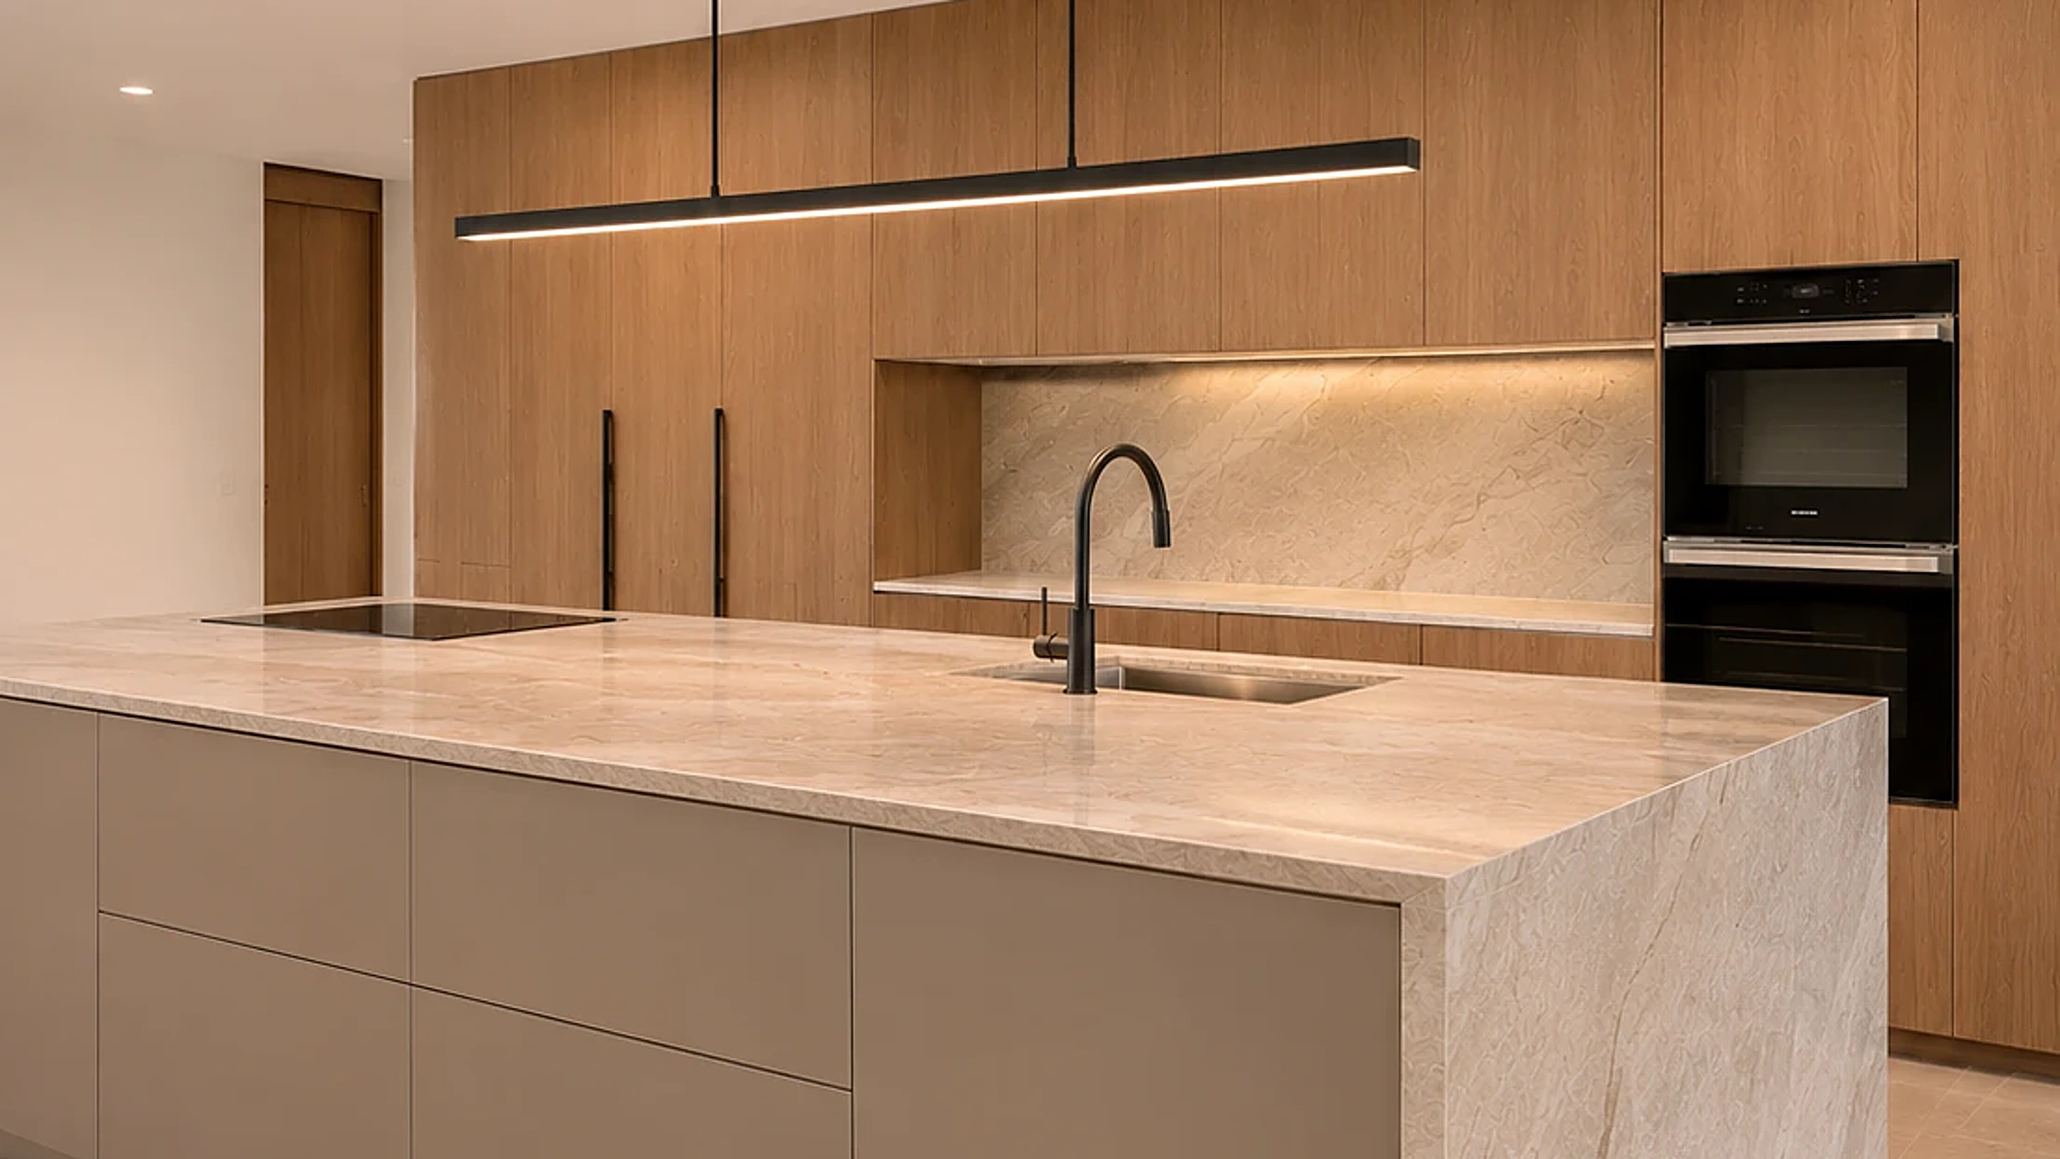
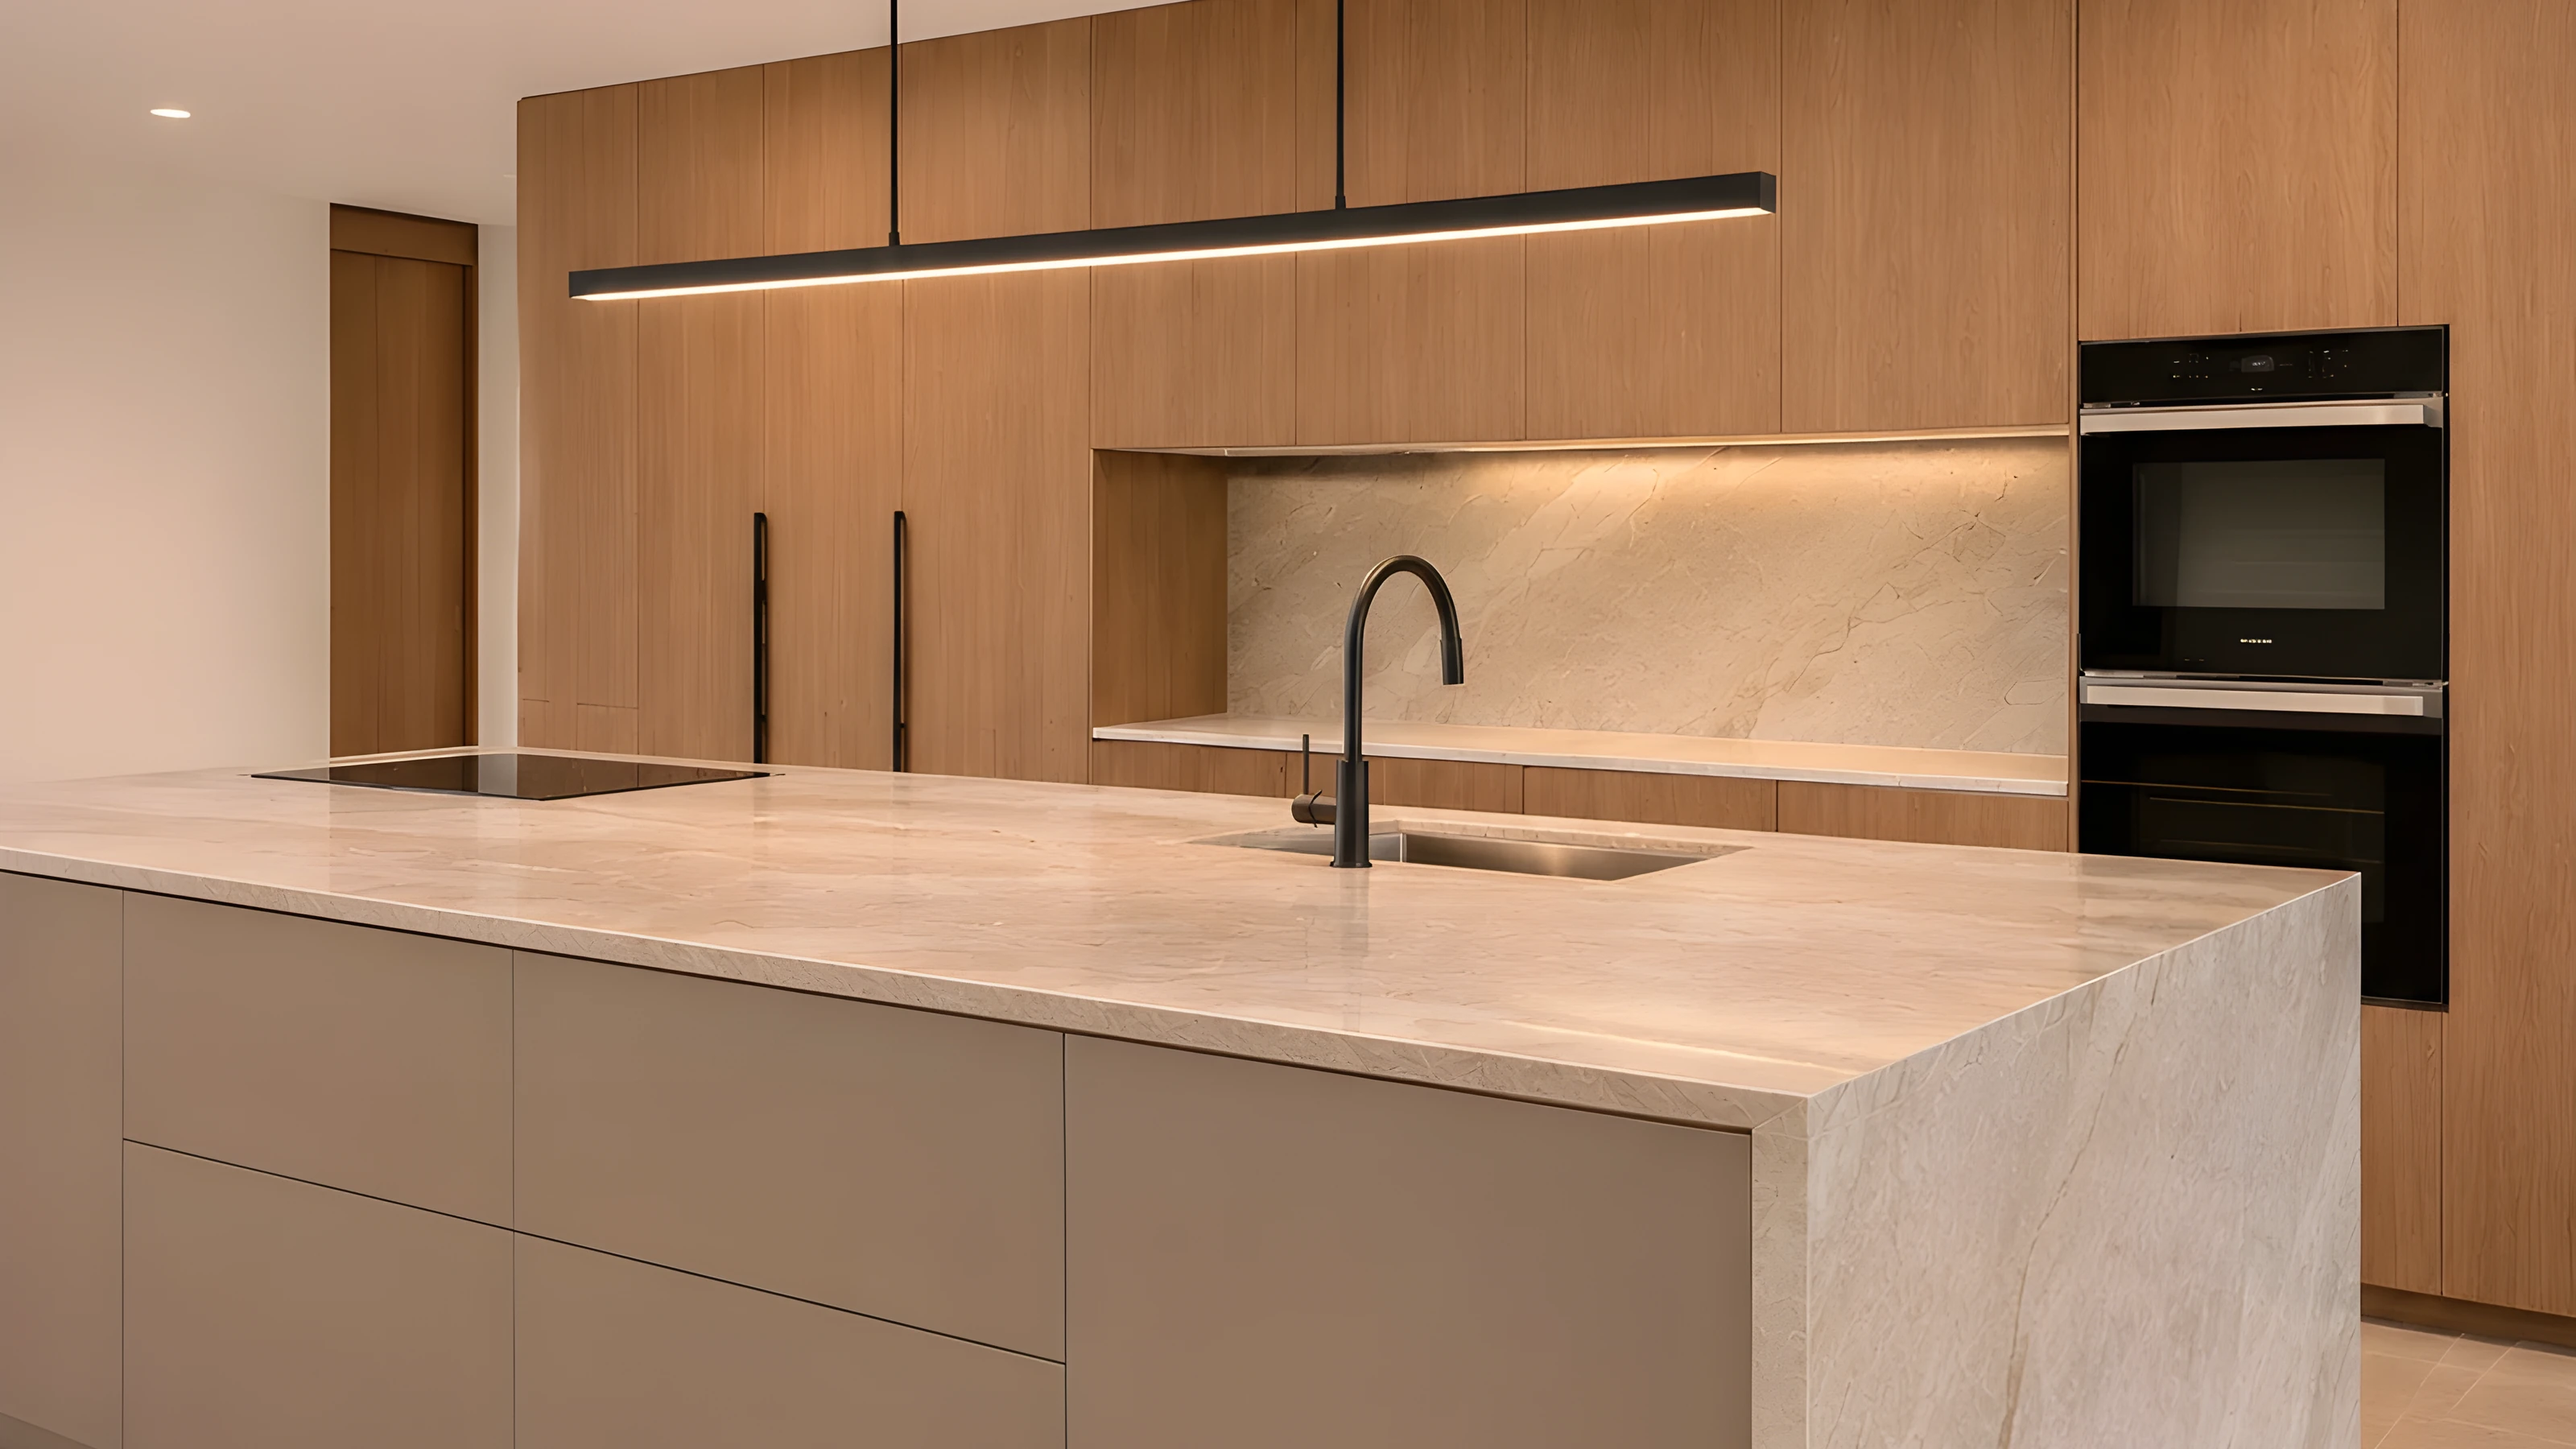
Keep hero captions unchanged on hover; sharper first hero image
Remove the italic hover style on the hero and tile links. Replace the
first hero image with an upscaled 3200x1800 / 1290x2293 export.

Claude-Session: https://claude.ai/code/session_01PJnvV7EPmWku7QpvRs9UqU

diff --git a/index.html b/index.html
@@ -37,20 +37,20 @@
   <main>
 
     <section class="hero">
-      <!-- Slideshow. Each slide has a landscape file (2560x1440, computers)
-           and a portrait file (1080x1920, phones). Every image gets the same colour treatment from .graded in the CSS. -->
+      <!-- Slideshow. Each slide has a landscape file (3200x1800, computers)
+           and a portrait file (1290x2293, phones). Every image gets the same colour treatment from .graded in the CSS. -->
       <div class="slides graded">
         <picture class="slide is-active">
           <source media="(orientation: portrait)" srcset="images/hero-1-mobile.webp">
-          <img src="images/hero-1-desktop.webp" alt="Kitchen with a stone waterfall island and warm wood cabinetry" width="2560" height="1440">
+          <img src="images/hero-1-desktop.webp" alt="Kitchen with a stone waterfall island and warm wood cabinetry" width="3200" height="1800">
         </picture>
         <picture class="slide">
           <source media="(orientation: portrait)" srcset="images/hero-2-mobile.webp">
-          <img src="images/hero-2-desktop.webp" alt="Stone farmhouse sink below a black-framed window with a desert view" width="2560" height="1440">
+          <img src="images/hero-2-desktop.webp" alt="Stone farmhouse sink below a black-framed window with a desert view" width="3200" height="1800">
         </picture>
         <picture class="slide">
           <source media="(orientation: portrait)" srcset="images/hero-3-mobile.webp">
-          <img src="images/hero-3-desktop.webp" alt="Cream kitchen with a veined stone island, plaster hood and brass fixtures" width="2560" height="1440">
+          <img src="images/hero-3-desktop.webp" alt="Cream kitchen with a veined stone island, plaster hood and brass fixtures" width="3200" height="1800">
         </picture>
       </div>
       <a href="#architecture">Architecture</a>

diff --git a/css/styles.css b/css/styles.css
@@ -175,7 +175,6 @@ a { color: inherit; text-decoration: none; }
   letter-spacing: -0.01em;
   text-shadow: 0 1px 30px rgba(40, 28, 22, 0.3);
 }
-.hero a:hover { font-style: italic; }
 
 /* ---------- Process: intro left, stacking steps right ---------- */
 .process {
@@ -282,7 +281,6 @@ a { color: inherit; text-decoration: none; }
   font-size: clamp(34px, 3.2vw, 48px);
   line-height: 1;
 }
-.tiles a:hover { font-style: italic; }
 
 /* ---------- Contact ---------- */
 .contact {
